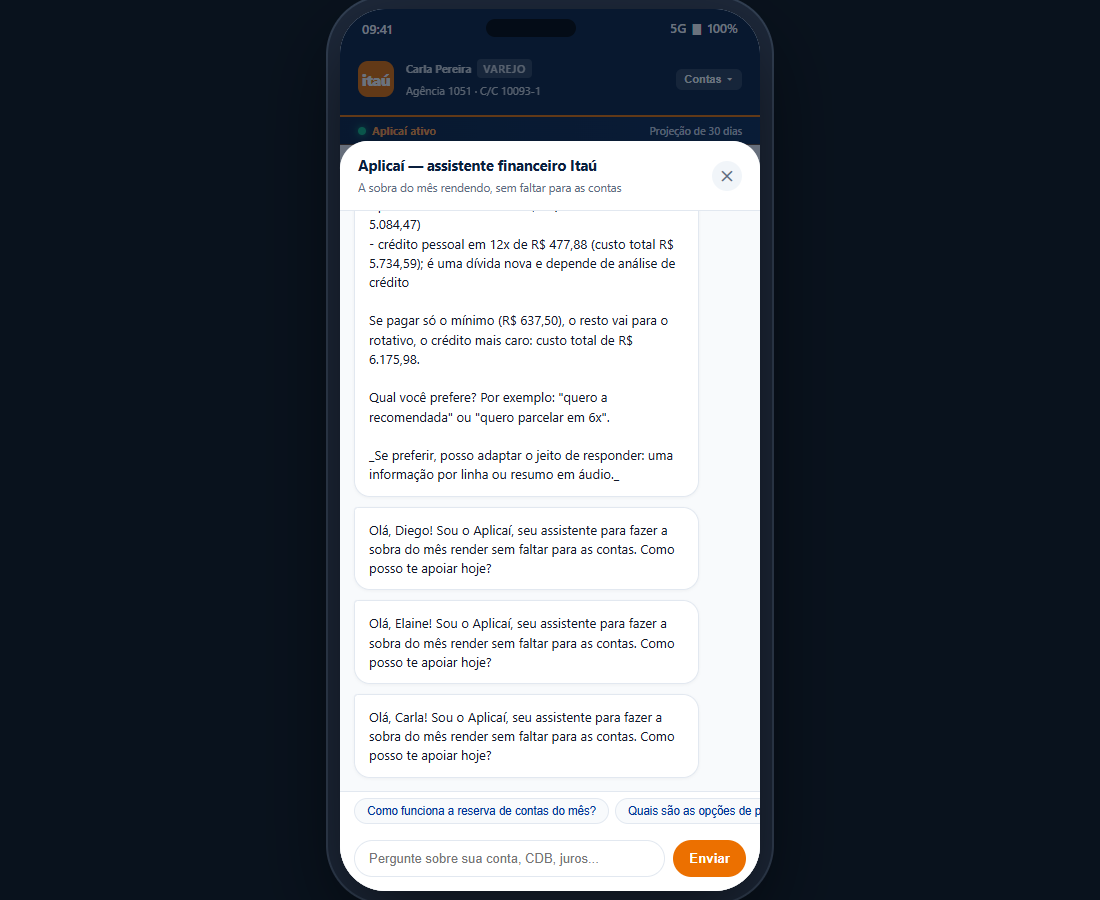
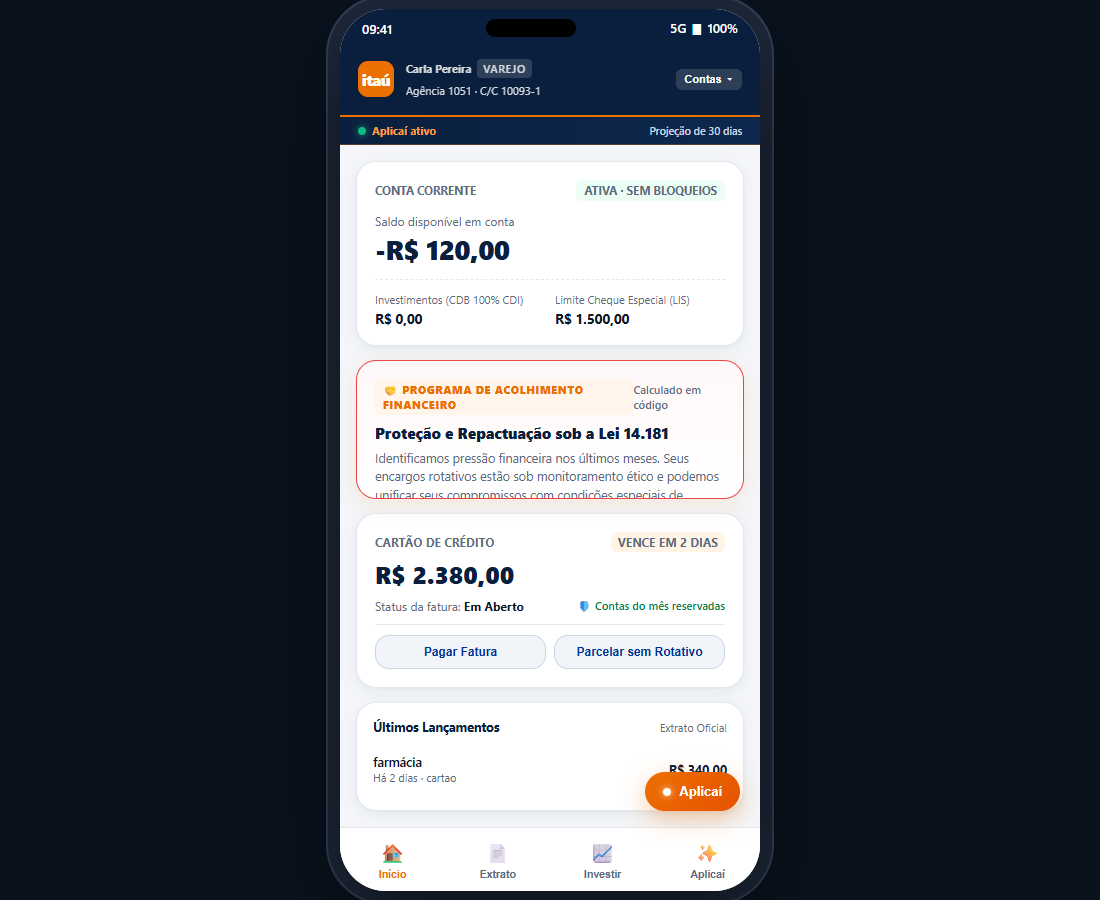
fix: prints capturados com o banco reiniciado e script idempotente
Os prints do PR #12 vieram de uma captura feita depois de outra, sem
reiniciar o banco simulado: o Diego já tinha aplicado, o card virou
'Finanças em dia' e o clique abriu o chat, que ficou sobreposto às telas
seguintes. O script agora chama /demo/reiniciar antes de capturar, e as 11
imagens foram conferidas uma a uma.

Changed region(s): [[0.3091, 0.0311, 0.7109, 0.7467], [0.34, 0.7778, 0.68, 0.9956]]

diff --git a/scripts/capturar_prints.js b/scripts/capturar_prints.js
@@ -45,6 +45,8 @@ async function conectar() {
 async function main() {
   if (!CHROME) throw new Error("Chrome/Edge não encontrado");
   await esperarServidor();
+  // estado inicial do banco simulado: sem isso, uma captura anterior (Diego já aplicou) muda os cards
+  await fetch(`${BASE}/demo/reiniciar`, { method: "POST" });
   fs.mkdirSync(SAIDA, { recursive: true });
   const perfil = fs.mkdtempSync(path.join(os.tmpdir(), "prints-"));
   const chrome = spawn(CHROME, [
